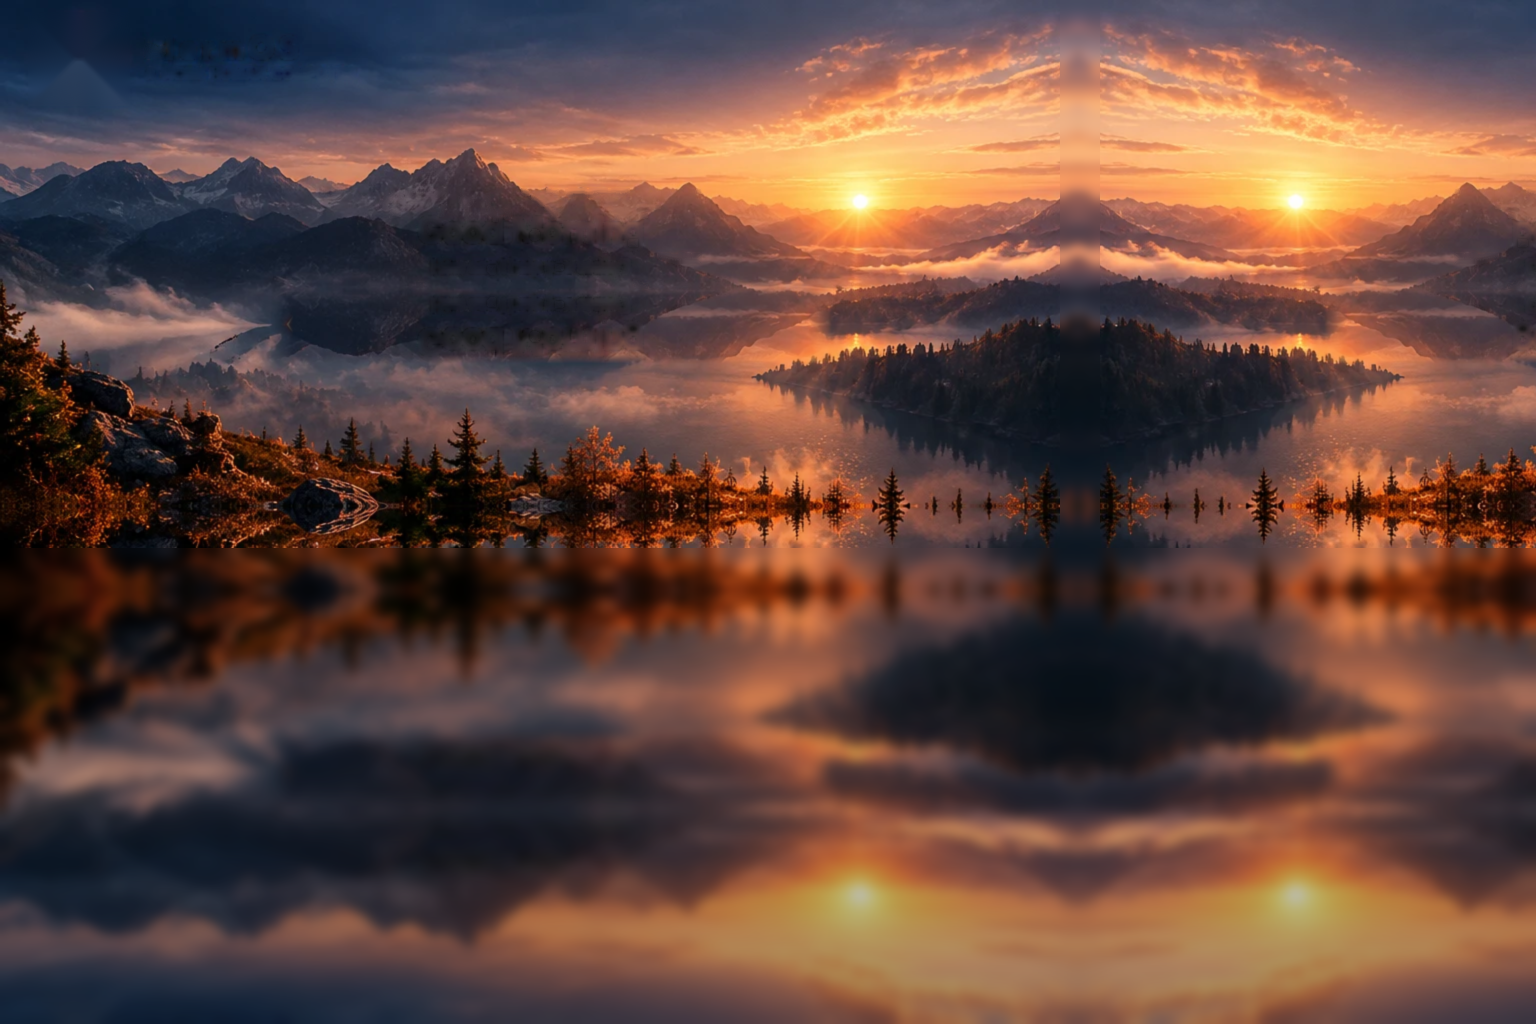
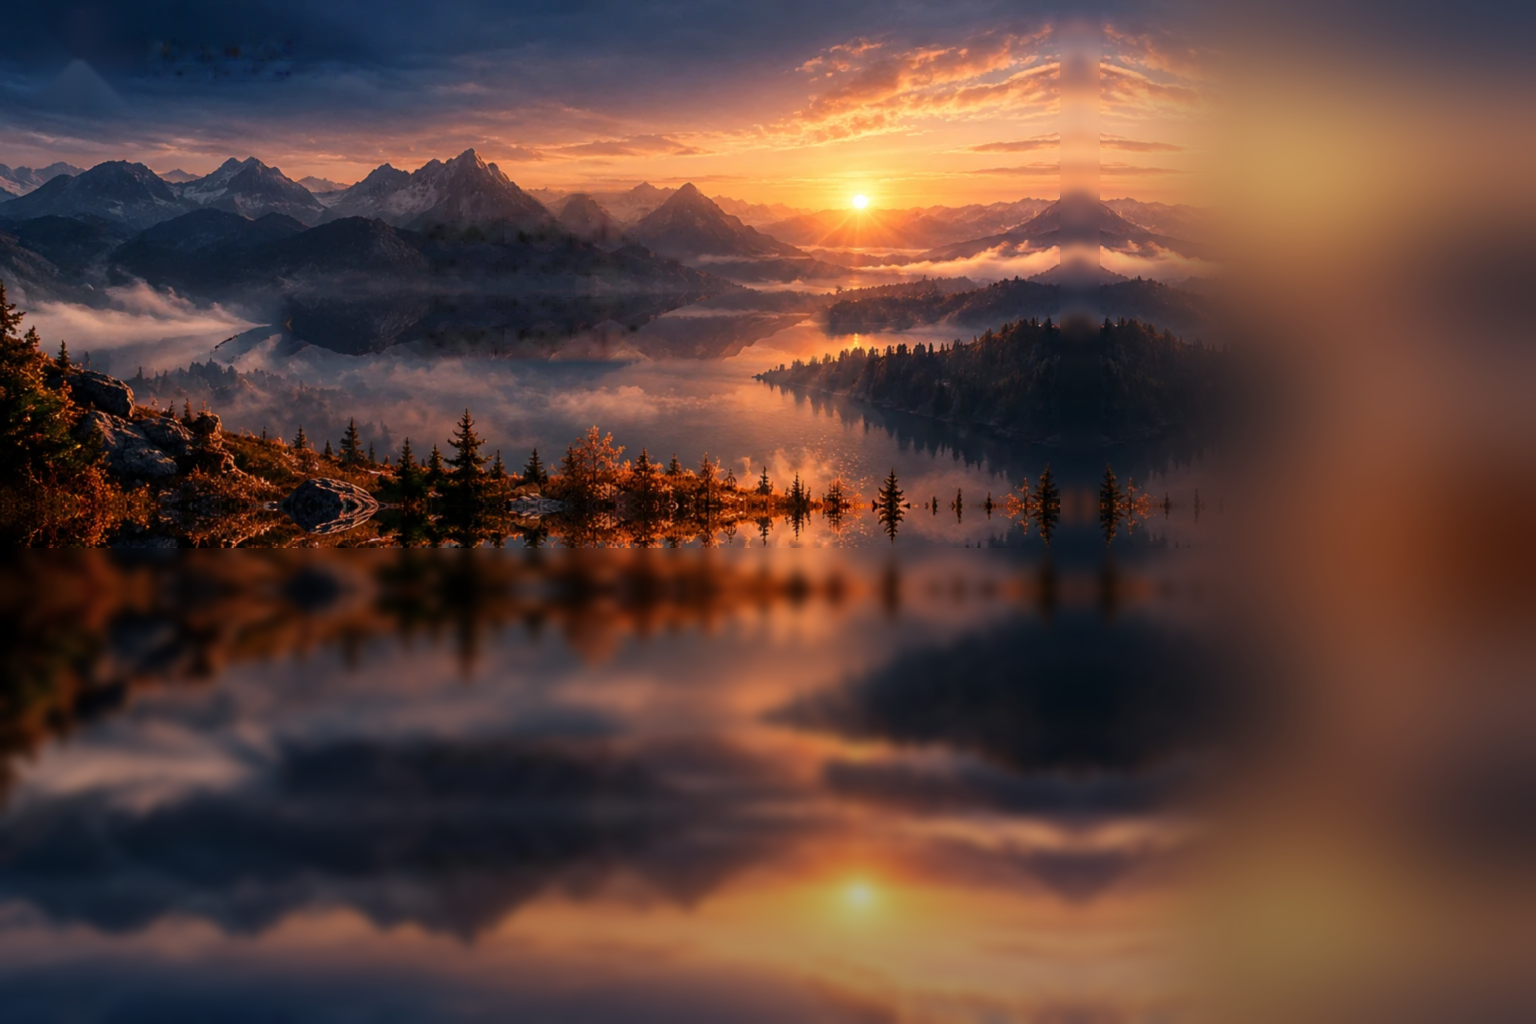
Right pane: hide/reveal on click (X, rail Agents tile, Meta+A), theme-driven; softer wallpaper behind it
The rail and pane move into the per-frame panel layer (animated, above Cells).
panels > right in theme.hid. Wallpaper right side no longer mirrors the sun.

Claude-Session: https://claude.ai/code/session_01PFnR3vwQxhPvBkACnmcidX

Changed region(s): [[0.7188, 0.0, 1.0, 1.0]]

diff --git a/repos/hermos/src/app/desktop_builder/scene.h b/repos/hermos/src/app/desktop_builder/scene.h
@@ -37,7 +37,7 @@ namespace Pal {
 struct Rect { float x, y, w, h; };
 
 enum class Visibility { Hidden, AutoHide, AlwaysVisible };
-enum class Edge { Left, Bottom };
+enum class Edge { Left, Bottom, Right };
 
 static inline float ease_out_cubic(float t) { t = 1.0f - clampf(t, 0, 1); return 1.0f - t * t * t; }
 
@@ -105,6 +105,8 @@ static constexpr int MAX_APP_ENTRIES = 10;
 struct Hits
 {
 	Rect left_grip, bottom_grip, left_panel, bottom_panel;
+	Rect pane_close;                    /* the X of the Agents & Workers pane (hides it) */
+	Rect rail[6];                       /* navigation rail tiles; tile 0 (Agents) toggles the pane */
 	Rect launcher[4];
 	int  launcher_count { 0 };
 	Rect app_play[MAX_APP_ENTRIES];     /* launch (inactive) */
@@ -176,6 +178,7 @@ struct State
 	int   cw { 1536 }, ch { 1024 };
 	Panel left   { Edge::Left,   Visibility::AutoHide,      78.0f };
 	Panel bottom { Edge::Bottom, Visibility::AlwaysVisible, 28.0f };
+	Panel right  { Edge::Right,  Visibility::AlwaysVisible, 356.0f };   /* Agents & Workers pane + rail */
 
 	char const *clock   { "Tue 10 Dec 2024 07:42" };
 	char const *prompt  { nullptr };       /* user-typed text, null = placeholder */
@@ -560,7 +563,7 @@ static inline void draw_greeting_search(Ctx &g, State const &st)
 
 /* ------------------------------------------------------ navigation rail (right) */
 
-static inline void draw_rail(Ctx &g, State const &st)
+static inline void draw_rail(Ctx &g, State const &st, Hits &hits)
 {
 	float const x = 1090, y = 12, w = 92, h = 540;
 	Poly p; chamfer_poly(p, g.X(x), g.Y(y), g.L(w), g.L(h), g.L(24), 0, 0, g.L(24));
@@ -578,6 +581,7 @@ static inline void draw_rail(Ctx &g, State const &st)
 	for (int i = 0; i < 6; ++i) {
 		float const cy = 115 + float(i) * 70.8f;
 		bool const act = i == st.rail_active;
+		hits.rail[i] = { 1128 - 26, cy - 26, 52, 64 };     /* tile + label */
 		hex_tile(g, 1128, cy, 48, 46, act);
 		Rgba const ic = act ? Rgba { 255, 232, 205, 1.0f } : Rgba { 236, 238, 240, 0.96f };
 		switch (i) {
@@ -635,6 +639,7 @@ static inline void draw_sidebar(Ctx &g, State const &st, Hits &hits)
 
 	g.text(g.f.med, 1200, 12, 17.3f, Pal::white, "Agents & Workers");
 	Icon::close_x(g, 1514, 22, 0.95f, Rgba { 230, 232, 235, 0.95f }, 1.7f);
+	hits.pane_close = { 1498, 6, 32, 32 };
 	char hdr[24];
 	{
 		/* "Active (n)" */
@@ -687,7 +692,7 @@ static inline void draw_sidebar(Ctx &g, State const &st, Hits &hits)
 	if (nact == 0)
 		g.text(g.f.reg, 1200, 100, 12.0f, Rgba { 150, 156, 164, 1.0f }, "Nothing is running.");
 
-	char ihdr[24]; { int k = 0; char const *t = "Available ("; while (*t) ihdr[k++] = *t++;
+	char ihdr[24]; { int k = 0; char const *t = "Inactive ("; while (*t) ihdr[k++] = *t++;
 	                 ihdr[k++] = char('0' + (nina > 9 ? 9 : nina)); ihdr[k++] = ')'; ihdr[k] = 0; }
 	g.text(g.f.med, 1200, 273, 13.4f, Pal::white, ihdr);
 }
@@ -914,8 +919,6 @@ static inline void render_base(Canvas &c, Fonts &f, Assets &a, State &st, Hits &
 	draw_wallpaper(g);
 	draw_header(g);
 	draw_greeting_search(g, st);
-	draw_rail(g, st);
-	draw_sidebar(g, st, hits);
 
 	/* the Cells below the first hosted one, in z-order (static content only) */
 	int const split = top_split(st);
@@ -947,6 +950,29 @@ static inline void render_panels(Canvas &c, Fonts &f, Assets &a, State &st, Hits
 {
 	c.ink = &st.ink; c.inactive = false;
 	Ctx g = make_ctx(c, f, a);
+	/* the right group: the navigation rail and the Agents & Workers pane slide out to the edge
+	 * together; the rail stays at the edge so the pane can be brought back with its Agents tile */
+	{
+		float const sh = st.right.shown();
+		float const pane_w = st.right.thickness;
+		Rect const none { 0, 0, 0, 0 };
+		hits.pane_close = none;
+		for (int i = 0; i < MAX_APP_ENTRIES; ++i) { hits.app_close[i] = none; hits.app_play[i] = none; }
+		hits.app_play_n = 0;
+
+		float const rdx = (1.0f - sh) * pane_w;                 /* rail: ends docked at the right edge */
+		Ctx gr = g; gr.ox += g.L(rdx);
+		draw_rail(gr, st, hits);
+		for (int i = 0; i < 6; ++i) hits.rail[i].x += rdx;
+
+		if (sh > 0.002f) {
+			float const pdx = (1.0f - sh) * (pane_w + 8.0f);
+			Ctx gp = g; gp.ox += g.L(pdx);
+			draw_sidebar(gp, st, hits);
+			hits.pane_close.x += pdx;
+			for (int i = 0; i < MAX_APP_ENTRIES; ++i) { hits.app_close[i].x += pdx; hits.app_play[i].x += pdx; }
+		}
+	}
 	draw_taskbar(g, st);
 	draw_left_dock(g, st, hits);
 

diff --git a/repos/hermos/src/app/desktop_builder/main.cc b/repos/hermos/src/app/desktop_builder/main.cc
@@ -1819,6 +1819,8 @@ namespace Hermos {
 		unsigned _glass_a   { 220 };
 		uint8_t _dock_r     {  46 }, _dock_g     {  50 }, _dock_b     {  56 };
 		int _sb_x { 901 }, _sb_y { 77 }, _sb_w { 102 }, _sb_h { 614 };
+		/* width the right pane takes right now (0 while it is hidden): Cells may use the space */
+		int _sb_w_live() const { return int(float(_sb_w) * _sstate.right.t); }
 
 		/* Step 3: the normalized snap slots from the theme_state report */
 		enum { MAX_SNAPS = 4 };
@@ -3116,7 +3118,7 @@ namespace Hermos {
 				 * or the bottom dock (bottom edge). */
 				constexpr int MIN_W = 150;
 				constexpr int MIN_H = 100;
-				int max_w = (int)_fb.mode().area.w - _sb_w - g.x;
+				int max_w = (int)_fb.mode().area.w - _sb_w_live() - g.x;
 				int max_h = (int)_fb.mode().area.h - _dock_y_offset - g.y;
 				/* keep the clamp bounds ordered even when the drag pushes the
 				 * cell past the sidebar/dock guard */
@@ -3294,7 +3296,7 @@ namespace Hermos {
 					 * raw screen. The dock + sidebar are the "struts". */
 					g.x = 0;
 					g.y = 0;
-					g.w = (int)_fb.mode().area.w - _sb_w;
+					g.w = (int)_fb.mode().area.w - _sb_w_live();
 					g.h = (int)_fb.mode().area.h - _dock_y_offset;
 
 					log("HermOS cell ", idx, " maximized (work area)");
@@ -3593,6 +3595,10 @@ namespace Hermos {
 		{
 			Scene::Map const m = Scene::map_for(_w, _h);
 
+			/* the right group: the pane's X hides it; the rail's Agents tile hides or reveals it */
+			if (m.hit(_shits.pane_close, x, y) && _sstate.right.visible()) { _sstate.right.toggle(); _dirty = true; return true; }
+			if (m.hit(_shits.rail[0], x, y)) { _sstate.right.toggle(); _dirty = true; return true; }
+
 			/* sidebar: start an app, or stop a running one */
 			for (int i = 0; i < _sstate.app_count; ++i) {
 				Scene::AppEntry const &a = _sstate.apps[i];
@@ -3645,7 +3651,7 @@ namespace Hermos {
 							{ Scene::Edge::Bottom, _sstate.bottom.mode, _sstate.bottom.thickness * m.k, _sstate.bottom.t, _sstate.bottom.pinned, false });
 						Cell_geom &g = _geom[idx];
 						g.x = int(area.x); g.y = int(area.y);
-						g.w = int(area.w) - _sb_w; g.h = int(area.h) - _dock_y_offset;
+						g.w = int(area.w) - _sb_w_live(); g.h = int(area.h) - _dock_y_offset;
 						log("HermOS cell ", idx, " maximized (client area)");
 					} else {   /* undo: back to the theme slot */
 						log("HermOS cell ", idx, " restore");
@@ -3720,6 +3726,7 @@ namespace Hermos {
 					if (dt < 1.0f)   dt = 1.0f;
 					bool moved = _sstate.left.update(dt);
 					moved = _sstate.bottom.update(dt) || moved;
+					moved = _sstate.right.update(dt)  || moved;
 					if (moved) { _render(); _dirty = false; }
 				} else {
 					/* re-render while the bottom panel is mid-slide */
@@ -3895,8 +3902,10 @@ namespace Hermos {
 					};
 					panels.with_optional_sub_node("left",   [&] (Xml_node const &n) { apply(_sstate.left,   n); });
 					panels.with_optional_sub_node("bottom", [&] (Xml_node const &n) { apply(_sstate.bottom, n); });
+					panels.with_optional_sub_node("right",  [&] (Xml_node const &n) { apply(_sstate.right,  n); });
 					_sstate.left.t   = _sstate.left.wants_shown()   ? 1.0f : 0.0f;
 					_sstate.bottom.t = _sstate.bottom.wants_shown() ? 1.0f : 0.0f;
+					_sstate.right.t  = _sstate.right.wants_shown()  ? 1.0f : 0.0f;
 				});
 
 				/* Step 3: the normalized snap slots (quick tiling) */
@@ -4053,6 +4062,7 @@ namespace Hermos {
 						switch (key) {
 						case Input::KEY_L:        _sstate.left.toggle();   _dirty = true; return;
 						case Input::KEY_B:        _sstate.bottom.toggle(); _dirty = true; return;
+						case Input::KEY_A:        _sstate.right.toggle();  _dirty = true; return;   /* Agents & Workers */
 						case Input::KEY_T:        _toggle_tile();  return;
 						case Input::KEY_LEFT:     _quick_tile(0);  return;
 						case Input::KEY_RIGHT:    _quick_tile(1);  return;

diff --git a/repos/hermos/src/app/theme_engine/main.cc b/repos/hermos/src/app/theme_engine/main.cc
@@ -79,7 +79,8 @@ namespace Theme {
 		/* Plasma-style panels */
 		char _pl_mode[16] { "autohide" };
 		char _pb_mode[16] { "visible" };
-		int  _pl_size { 78 }, _pb_size { 28 };
+		char _pr_mode[16] { "visible" };
+		int  _pl_size { 78 }, _pb_size { 28 }, _pr_size { 356 };
 
 		/* Step 3: the normalized snap slots (quick tiling) */
 		enum { MAX_SNAPS = 4 };
@@ -150,7 +151,7 @@ namespace Theme {
 		/* parse the HID: "+"-indented tree with "key: value" lines */
 		void _parse(char const *buf, size_t len)
 		{
-			enum Sect { SECT_NONE, SECT_CELL, SECT_SIDEBAR, SECT_ICONS, SECT_SNAP, SECT_PLEFT, SECT_PBOTTOM, SECT_CMDBAR, SECT_APPCELL, SECT_FRAME, SECT_INK } sect = SECT_NONE;
+			enum Sect { SECT_NONE, SECT_CELL, SECT_SIDEBAR, SECT_ICONS, SECT_SNAP, SECT_PLEFT, SECT_PBOTTOM, SECT_PRIGHT, SECT_CMDBAR, SECT_APPCELL, SECT_FRAME, SECT_INK } sect = SECT_NONE;
 			Cell *cur = nullptr;
 			Snap *scur = nullptr;
 
@@ -199,6 +200,7 @@ namespace Theme {
 				else if (Genode::strcmp(word, "ink") == 0)        { sect = SECT_INK;     cur = nullptr; scur = nullptr; }
 				else if (Genode::strcmp(word, "left") == 0)   { sect = SECT_PLEFT;   cur = nullptr; scur = nullptr; }
 				else if (Genode::strcmp(word, "bottom") == 0) { sect = SECT_PBOTTOM; cur = nullptr; scur = nullptr; }
+				else if (Genode::strcmp(word, "right") == 0)  { sect = SECT_PRIGHT;  cur = nullptr; scur = nullptr; }
 					continue;
 				}
 
@@ -247,10 +249,10 @@ namespace Theme {
 					for (auto const &m : map) if (Genode::strcmp(key, m.k) == 0) { *m.v = val; _cb.set = true; }
 				} else if (Genode::strcmp(key, "scale") == 0) {
 					if (val >= 100) _scale = val;
-				} else if (Genode::strcmp(key, "mode") == 0 && (sect == SECT_PLEFT || sect == SECT_PBOTTOM)) {
-					_copy_val(sect == SECT_PLEFT ? _pl_mode : _pb_mode, val_start, le);
-				} else if (Genode::strcmp(key, "size") == 0 && (sect == SECT_PLEFT || sect == SECT_PBOTTOM)) {
-					(sect == SECT_PLEFT ? _pl_size : _pb_size) = val;
+				} else if (Genode::strcmp(key, "mode") == 0 && (sect == SECT_PLEFT || sect == SECT_PBOTTOM || sect == SECT_PRIGHT)) {
+					_copy_val(sect == SECT_PLEFT ? _pl_mode : sect == SECT_PBOTTOM ? _pb_mode : _pr_mode, val_start, le);
+				} else if (Genode::strcmp(key, "size") == 0 && (sect == SECT_PLEFT || sect == SECT_PBOTTOM || sect == SECT_PRIGHT)) {
+					(sect == SECT_PLEFT ? _pl_size : sect == SECT_PBOTTOM ? _pb_size : _pr_size) = val;
 				} else if (Genode::strcmp(key, "id") == 0 && sect == SECT_CELL && cur) {
 					size_t const il = (size_t)(le - val_start);
 					size_t const icp = il < 15 ? il : 15;
@@ -396,6 +398,7 @@ namespace Theme {
 					xml.node("panels", [&] () {
 						xml.node("left",   [&] () { xml.attribute("mode", _pl_mode); xml.attribute("size", _pl_size); });
 						xml.node("bottom", [&] () { xml.attribute("mode", _pb_mode); xml.attribute("size", _pb_size); });
+						xml.node("right",  [&] () { xml.attribute("mode", _pr_mode); xml.attribute("size", _pr_size); });
 					});
 					xml.node("snaps", [&] () {
 						for (int i = 0; i < _snap_count; ++i) {

diff --git a/repos/hermos/doc/FUNCTIONS.md b/repos/hermos/doc/FUNCTIONS.md
@@ -54,7 +54,7 @@ function carries one of these marks:
 | Clock (taskbar) | VERIFIED | Live from the RTC. |
 | Left launcher dock: Files, Terminal, Install | VERIFIED | Auto-hides; hover the left edge. Install only on installable media. |
 | Hide/show panels: hover, `Meta+L`, `Meta+B`, grip tabs, taskbar button | VERIFIED | Animated by elapsed time. |
-| Agents & Workers panel: running apps with a close button, ▶ to launch | VERIFIED | Lists real apps only. |
+| Agents & Workers pane: running apps with a close button, ▶ to launch | VERIFIED | Lists real apps only; "Active (n)" / "Inactive (n)". Hides and reveals by user click: the pane's X, the rail's Agents tile, or `Meta+A`; the rail docks at the right edge while it is hidden; Cells may use the freed width. Mode and width are `panels > right` in `theme.hid`. The mock-up's per-card ⋯ menu and sample thumbnails are not drawn (nothing real behind them). |
 | "Hermes Agent: Ready" status | BUILT | Always shows Ready; the agent's real state is not queried. |
 | Windows: frame, close, minimise, restore from the taskbar | VERIFIED | |
 | Window maximise (uses the Plasma-style client area) | BUILT | |
